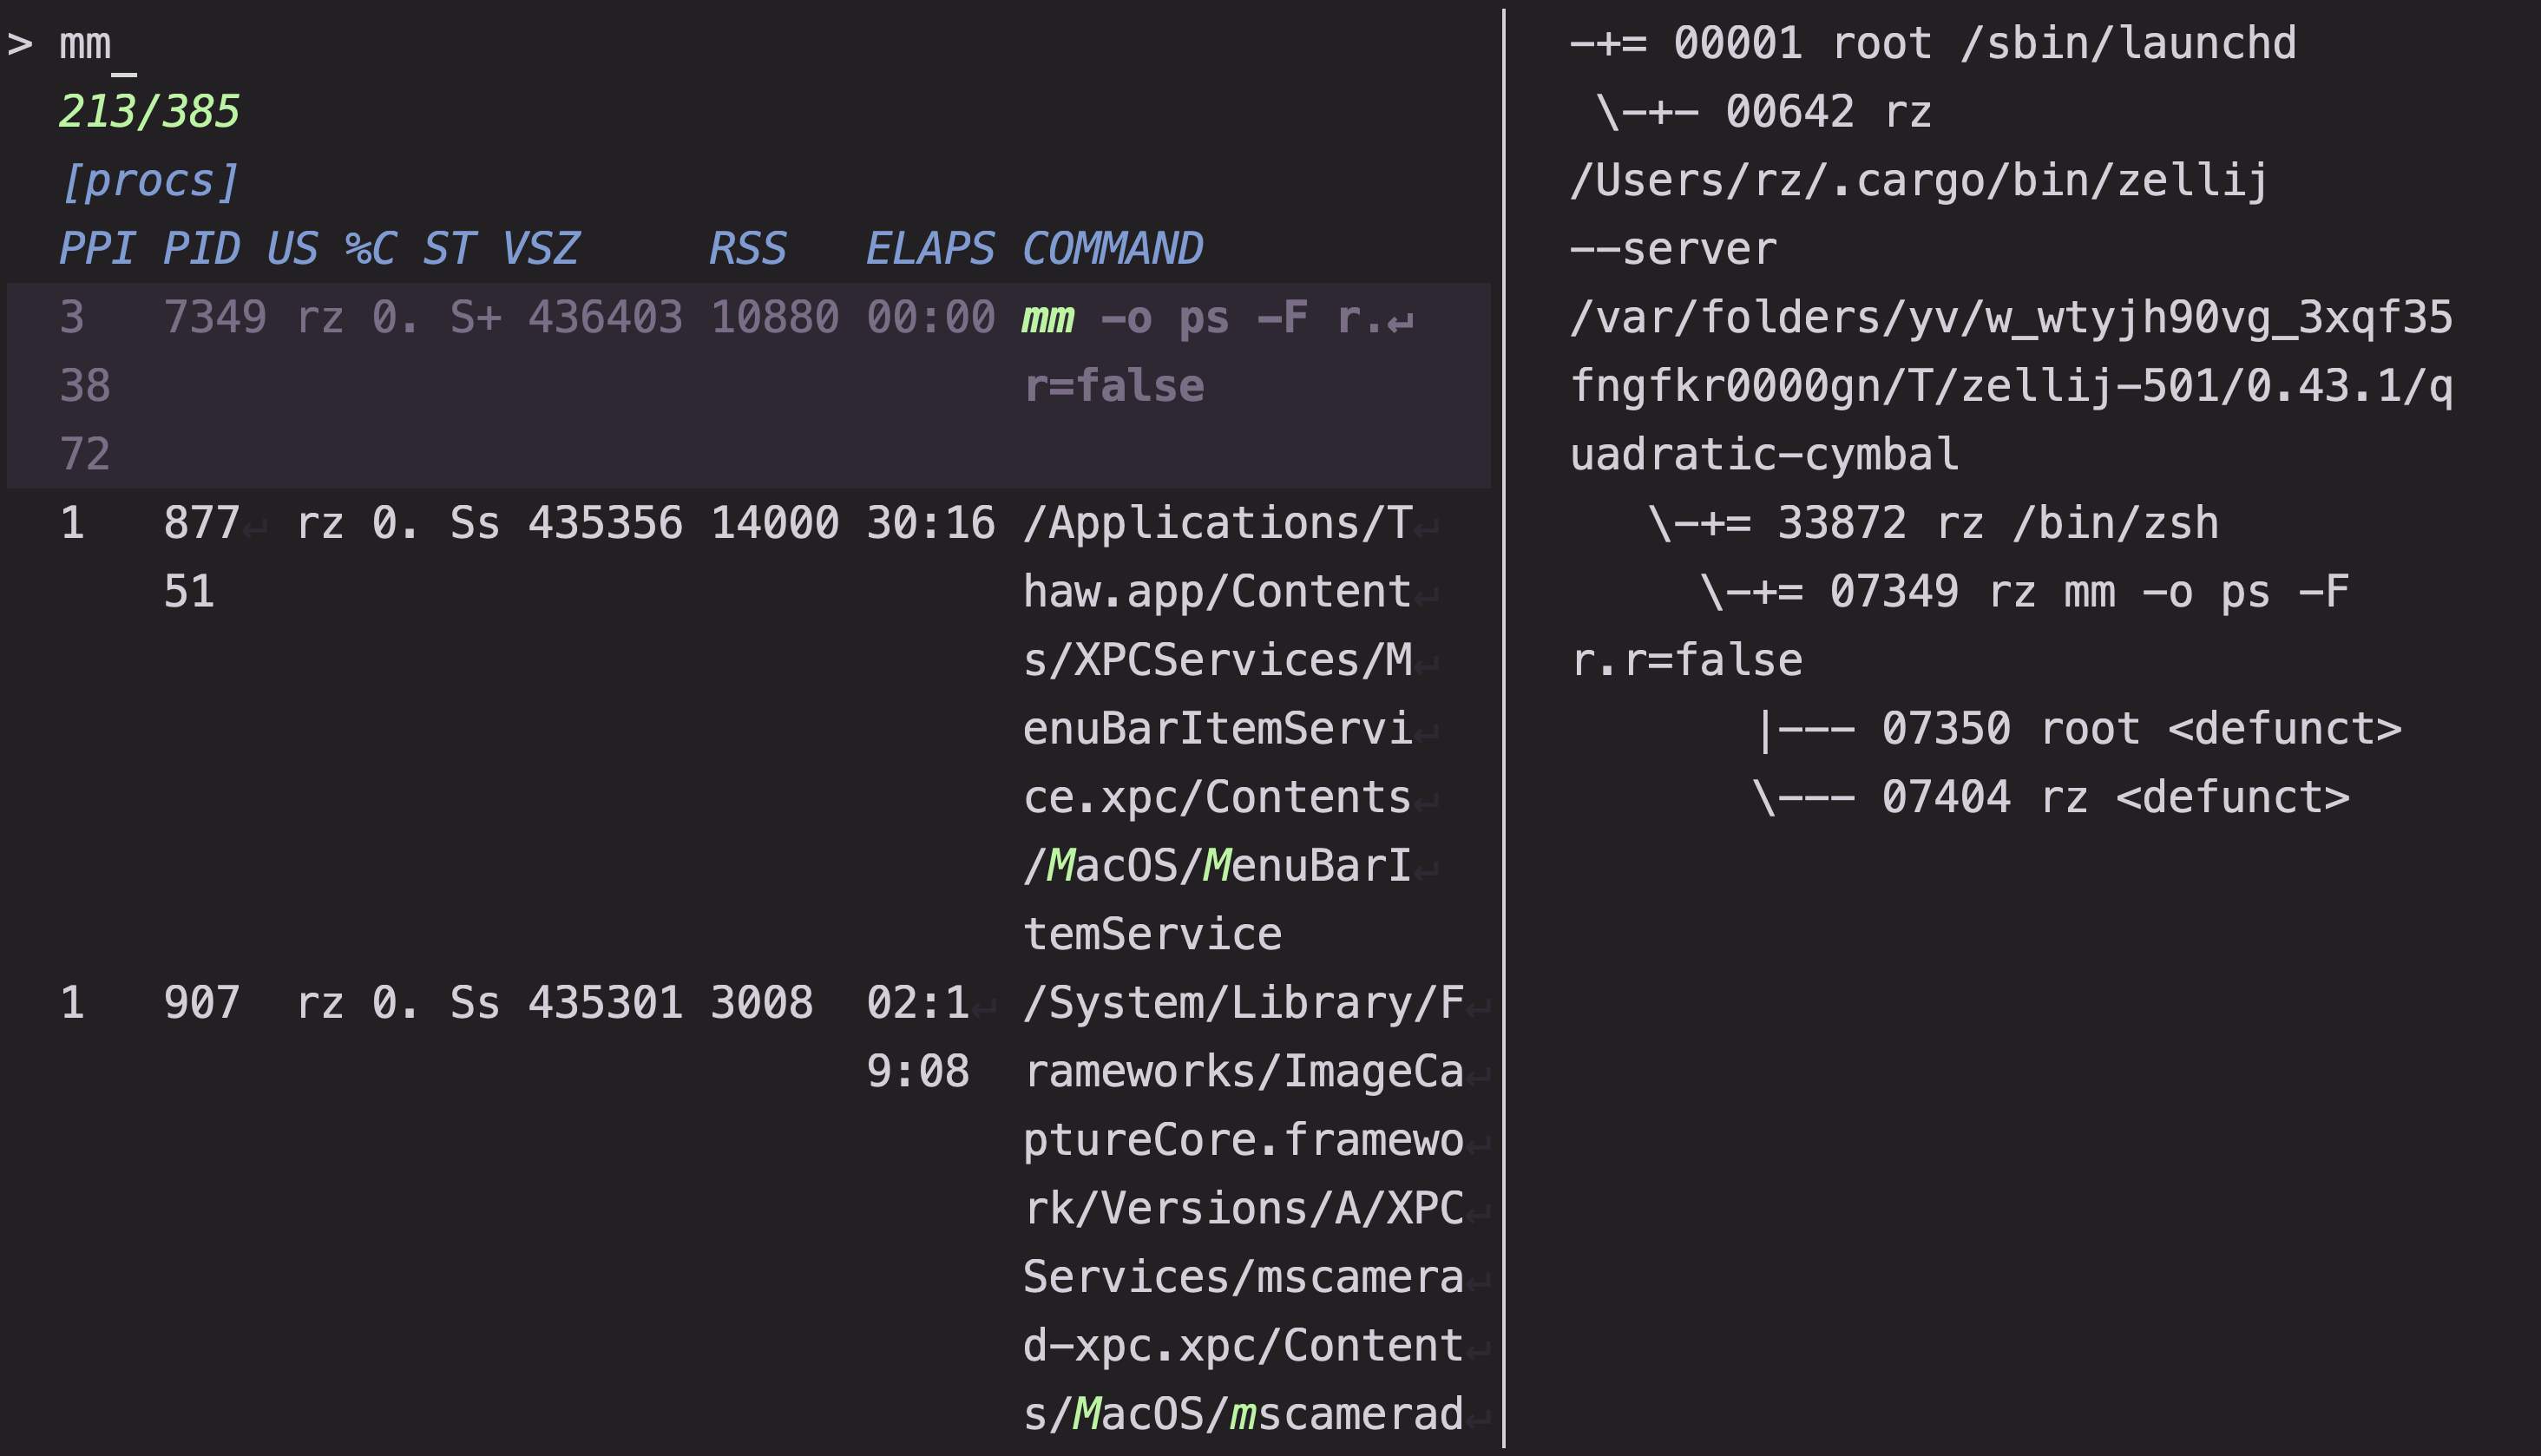
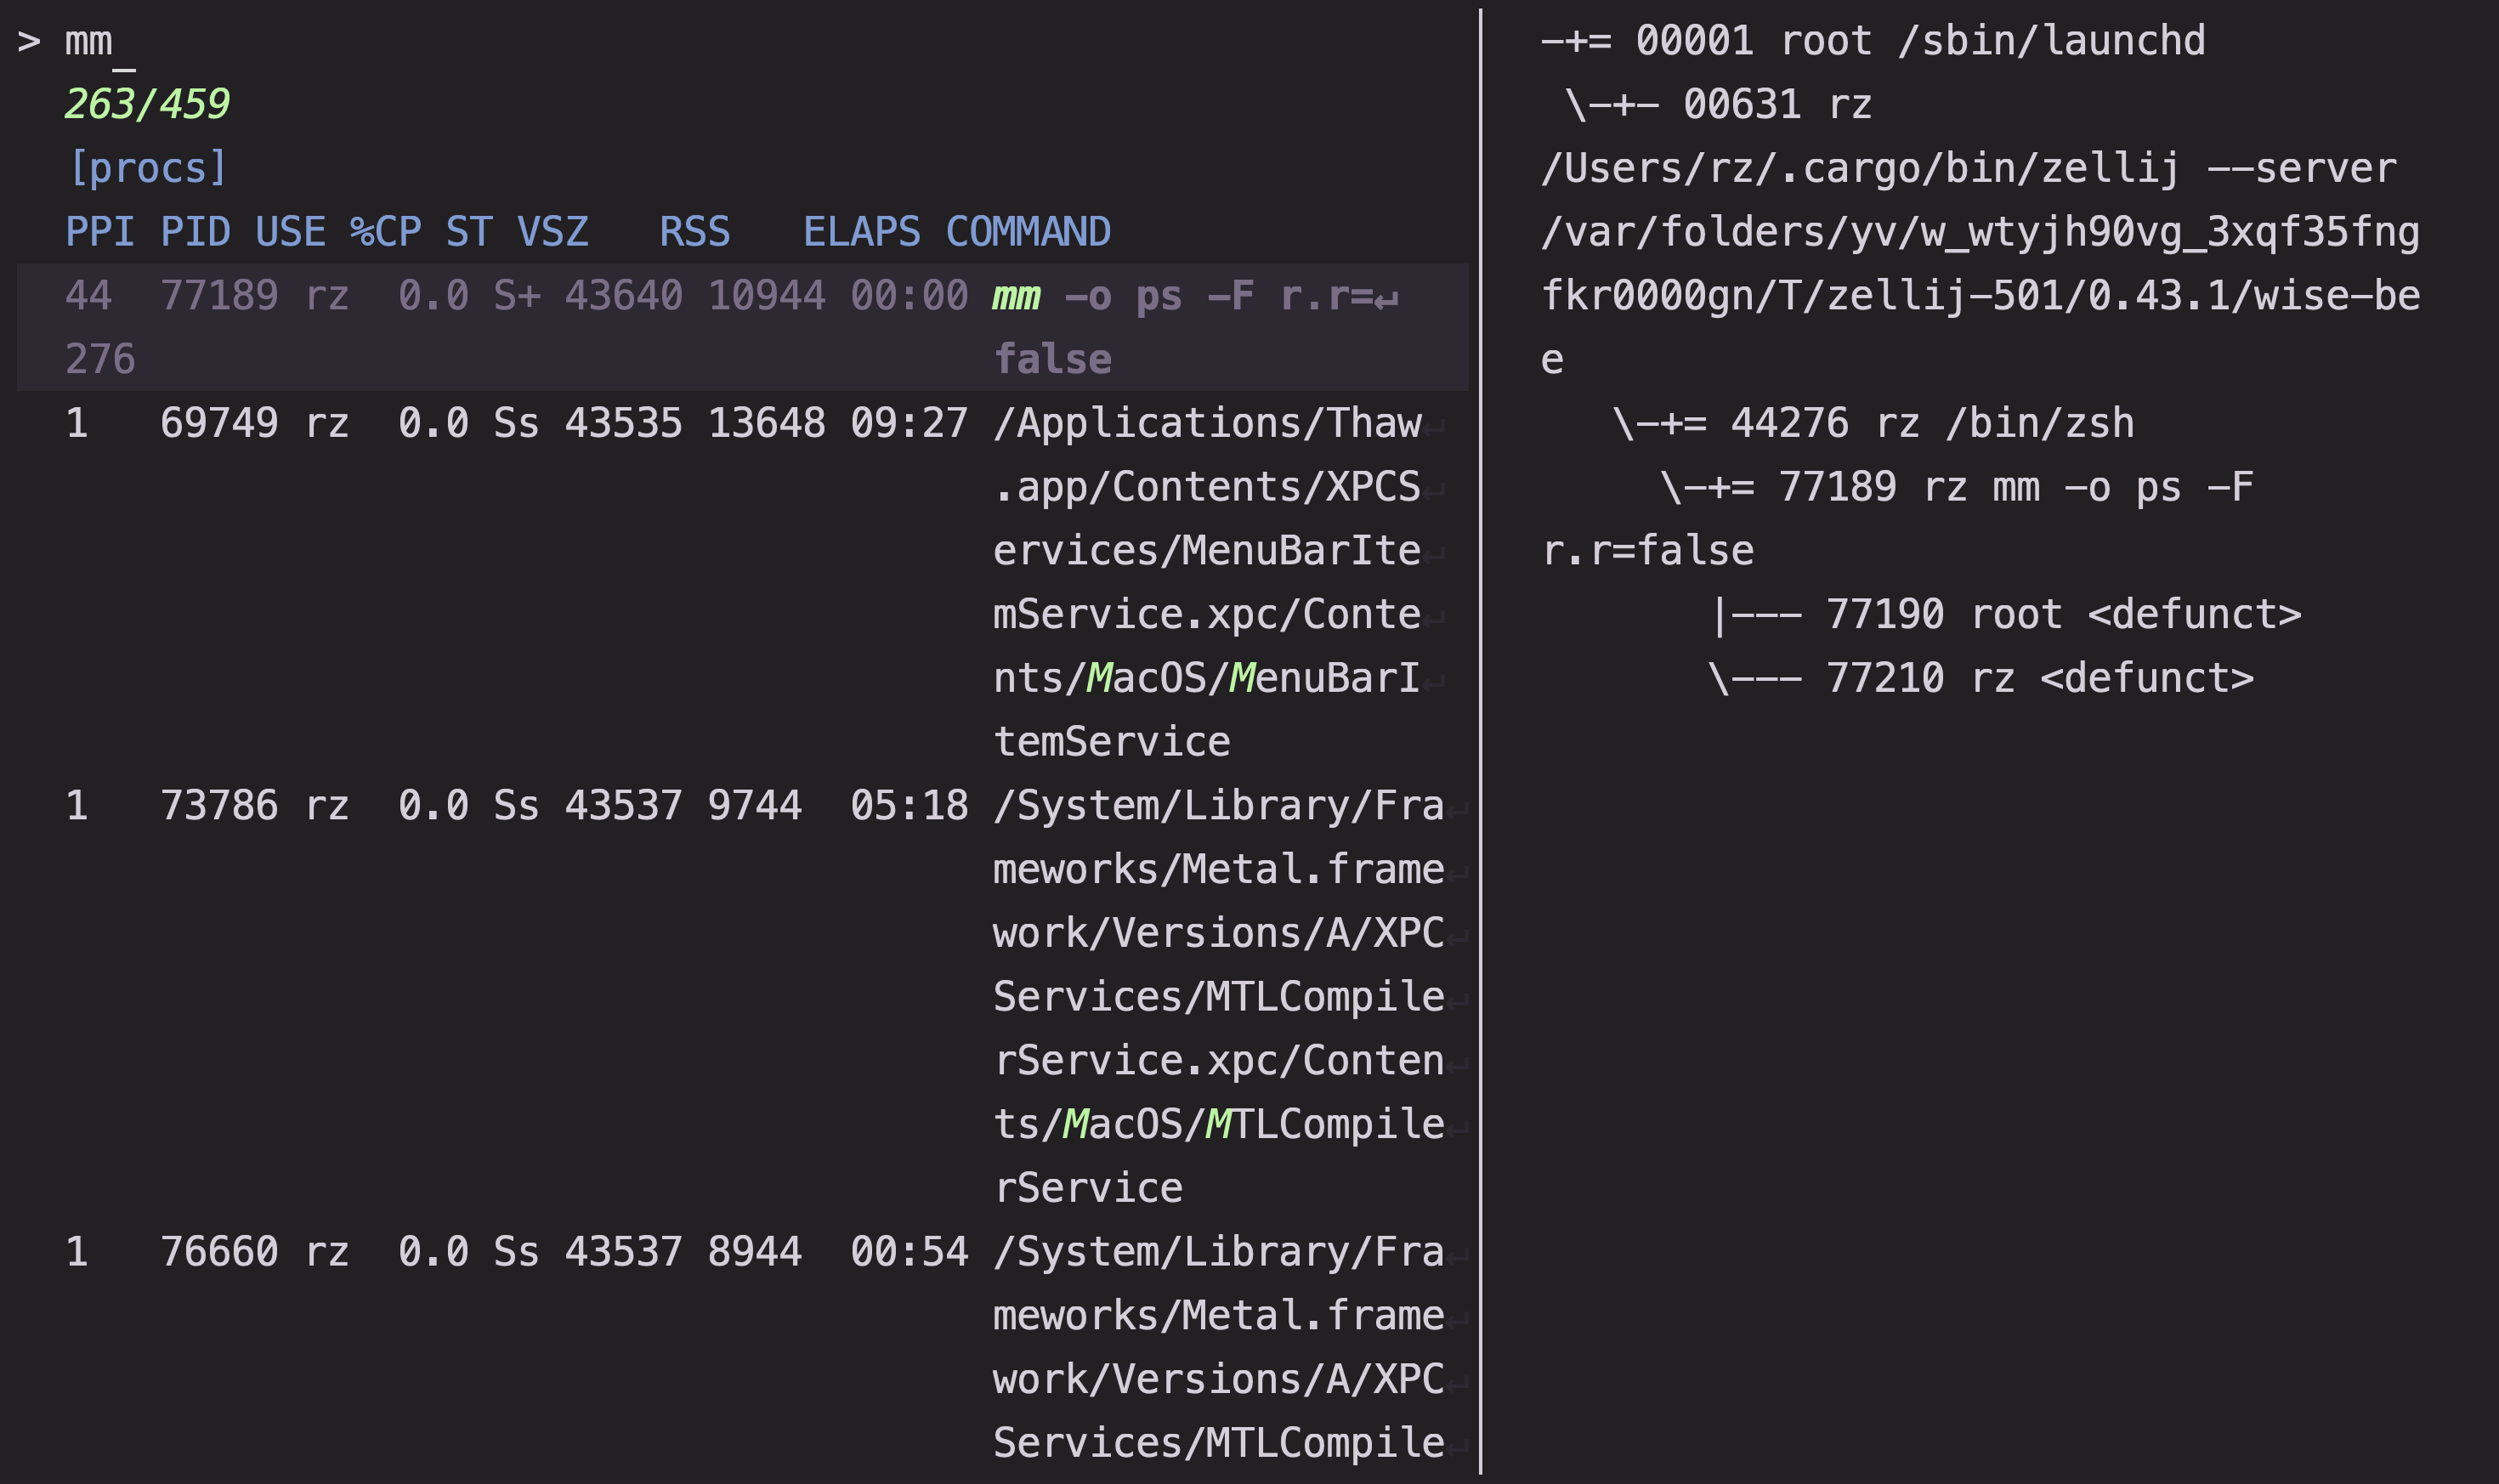
fix: doc update

diff --git a/matchmaker-cli/assets/docs/binds.md b/matchmaker-cli/assets/docs/binds.md
@@ -78,6 +78,7 @@ Actions can be bound to events:
 - `Complete` – Triggered when the application is about to exit.
 - `Synced` – Triggered when the matcher completes its first synchronization.
 - `Resynced` – Triggered when the matcher finishes processing the current state again.
+- `Reloaded` – Triggered when a `Reload` or `ReloadNext` action completes.
 
 #### Input & Cursor
 
@@ -99,6 +100,31 @@ Actions can be bound to events:
 
 - `Pause` – Triggered when the system enters a paused state.
 - `Resume` – Triggered when execution resumes from a paused state.
+
+### Modes
+
+Triggers can be optionally prefixed with a mode (consisting of alphanumeric characters) followed by `^^`. A bind with a mode will only be active when the application is in that specific mode.
+
+**Syntax:** `mode^^trigger = actions`
+
+Binds defined without a mode act as fallbacks and are active in all modes unless overridden by a mode-specific bind.
+
+**Example:**
+```toml
+[binds]
+"vim^^h" = "BackwardChar"
+"vim^^l" = "ForwardChar"
+"h" = "Up"
+"l" = "Down"
+```
+
+In this example, if the mode is `vim`, `h` and `l` will move the cursor horizontally. In any other mode, they will move the selection cursor vertically.
+
+Matchmaker initializes with a default mode based on how it was started:
+- `command`: When started with a shell command.
+- `piped`: When reading from stdin.
+
+You can set the initial mode using `start.mode`.
 
 Scroll to the bottom for some examples.
 

diff --git a/matchmaker-cli/README.md b/matchmaker-cli/README.md
@@ -159,7 +159,7 @@ mm --config ~/.config/matchmaker/presets/rg.toml
 
 ### Presets
 
-Matchmaker is really good for creating workflows. It's like a swiss army knife for building and sharing great TUI's -- check out the collection [here](https://github.com/Squirreljetpack/matchmaker/tree/main/matchmaker-cli/assets/presets)[^50]!
+Matchmaker is really good for creating workflows. It's like a swiss army knife for building and sharing great TUI's -- check out the [collection](https://github.com/Squirreljetpack/matchmaker/tree/main/matchmaker-cli/assets/presets)![^50]
 
 ```shell
 # download a preset

diff --git a/matchmaker-cli/assets/docs/options.md b/matchmaker-cli/assets/docs/options.md
@@ -98,6 +98,7 @@ All colors and modifiers come from ratatui:
 - `ansi`: (bool) Parse ansi codes from input.
   - Absolute alias: `a`.
 - `ax`, `additional_commands`: ([String]) Additional commands that can be cycled through using the ReloadNext action.
+- `mode`: (string) The initial mode of the application (e.g., `vim`). Default is `command` or `piped`.
 
 
 ### Exit (`exit.`, `e`)